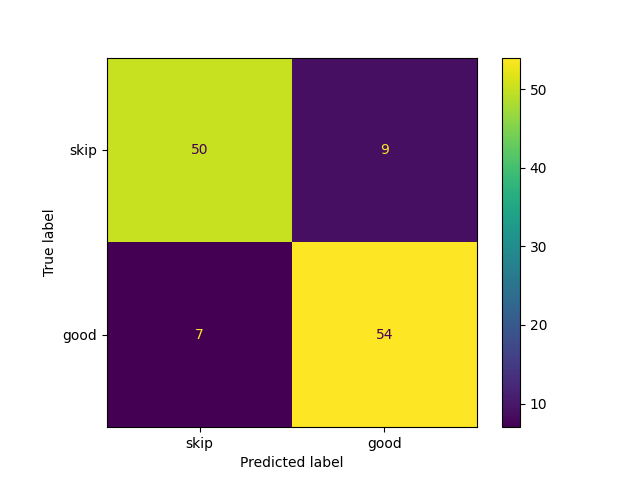
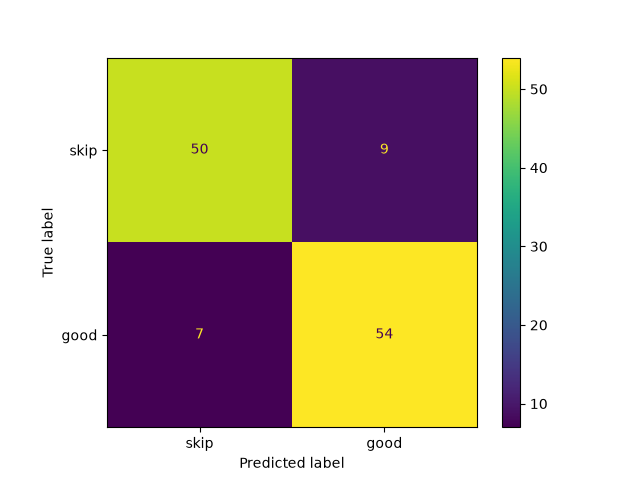
Finished weather_classifier.py

diff --git a/assignments_03/train_classifier.py b/assignments_03/train_classifier.py
@@ -1,8 +1,10 @@
 import numpy as np
 import pandas as pd
 import requests
+import json
+import platform
+import sklearn
 import matplotlib.pyplot as plt
-
 from sklearn.model_selection import train_test_split, cross_val_score
 from sklearn.preprocessing import StandardScaler, OneHotEncoder
 from sklearn.compose import ColumnTransformer
@@ -14,9 +16,6 @@ from sklearn.metrics import (
     ConfusionMatrixDisplay, classification_report,
 )
 import joblib
-
-import requests
-import pandas as pd
 
 url = "https://archive-api.open-meteo.com/v1/archive"
 params = {
@@ -46,10 +45,95 @@ print(df.head(5))
 
 # Task 2
 
+df["good_for_running"] = ((df["temperature_2m_max"].between(7,26)) & (df["temperature_2m_min"]>=0) & (df["precipitation_sum"]<3) & (df["wind_speed_10m_max"]<30)).astype(int)
+print(df["good_for_running"].value_counts())
+print("Fractions: ", df["good_for_running"].value_counts(normalize=True))
+
+# 136 days which is about 37% for good for running. This makes sense because winters get below 7 and summers get well above 26, We do have a good amount of rain as well. 
+# The data has a mild imbalance. Accuracy helps but we might need f1 scores and precision for good days. 
+
 # Task 3
+numeric = ["temperature_2m_max", "temperature_2m_min", "precipitation_sum", "wind_speed_10m_max"]
+X = df[numeric]
+y = df["good_for_running"]
+
+X_train, X_test, y_train, y_test = train_test_split(X, y, test_size=0.2, random_state=42, stratify=y
+ )
+
+best_score = 0
+best_k = 0
+
+for k in [1, 3, 5, 7, 9, 11, 15, 21]:
+    model = Pipeline([
+    ("scaler", StandardScaler()),
+    ("knn", KNeighborsClassifier(n_neighbors=k))
+])
+    scores = cross_val_score(model, X_train, y_train, cv=5)
+    mean_score = scores.mean()
+    print(f"K: {k}  Mean CV score: {mean_score:.4f}")
+
+    if(mean_score >= best_score):
+        best_score = mean_score
+        best_k = k
+model = Pipeline([
+    ("scaler", StandardScaler()),
+    ("knn", KNeighborsClassifier(n_neighbors=best_k))
+])
+model.fit(X_train, y_train)
+
+print(classification_report(y_test,model.predict(X_test)))
+print("Test Accuracy:", model.score(X_test, y_test))
+
+#Using K=3 since the mean score is .91788
 
 # Task 4
 
+new_model = Pipeline([
+    ("scaler", StandardScaler()),
+    ("logreg", LogisticRegression(max_iter=1000)),
+])
+new_model.fit(X_train, y_train)
+
+y_pred = new_model.predict(X_test)
+print(classification_report(y_test, y_pred))
+
+print("Accuracy: ", accuracy_score(y_test, y_pred))
+print("Precision: ", precision_score(y_test, y_pred))
+print("Recall: ", recall_score(y_test, y_pred))
+print("F1 Score: ", f1_score(y_test, y_pred))
+
+logreg = new_model.named_steps["logreg"]
+for feature, coef in zip(numeric, new_model.named_steps["logreg"].coef_[0]):
+    print(f"{feature}:{coef:.4f}")
+
+# temperature_2m_max and precipitation_sum drive whether to skip with coefficients of -1.33 and -2.6 respectively. 
+
 # Task 5
+# The KNN model is more accurate with a result of .918 and the logistic regression giving us .808
+# I think false positives are most important, the worse would be a false positive where users goes out to run and its raining etc.
+# Accuracy matters, but precision is more important in this instance since it measures how often a "good" prediction is actually good.
+# I would choose the KNN model, since its the most accurate and has higher precision (.82 vs .76). On the logreg model you're looking at a recall of 70% and 76% for precision.
+# KNN stores all training days and is slower to predict, but with only ~290 days that is not a problem. The trade-off is that logreg is easier to explain with its coefficients and gives smoother probabilities, while KNN with k=3 can only give 0, .33, .67 or 1.
 
 # Task 6
+joblib.dump(model, "models/weather_classifier.pkl")
+
+loaded = joblib.load("models/weather_classifier.pkl")
+assert (loaded.predict(X_test) == model.predict(X_test)).all()
+print("Predictions match.")
+print("File saved")
+
+metadata = {
+"python_version": platform.python_version(),
+"sklearn_version": sklearn.__version__,
+"city": "Norcross, GA",
+"features": ["temperature_2m_max", "temperature_2m_min", "precipitation_sum", "wind_speed_10m_max"],
+"label_rule": "good if 7 <= high <= 26, low >= 0, precipitation < 3 mm, wind < 30 km/h",
+"test_accuracy": float(accuracy_score(y_test, model.predict(X_test))),
+"f1_score": float(f1_score(y_test, model.predict(X_test)))
+}
+
+with open("models/weather_classifier_metadata.json", "w") as f:
+    json.dump(metadata, f, indent=2)
+    print("JSON doc created: ")
+

diff --git a/assignments_03/warmup_03.py b/assignments_03/warmup_03.py
@@ -33,7 +33,7 @@ X_test_scaled = scaler.transform(X_test)
 
 print(X_train_scaled.mean(axis=0))
 
-# Because the scaler on X_train only prevents data leakage from the test into the training process. 
+# Because the scaler is trained on X_train only prevents data leakage from the test into the training process. 
 
 # Question 2
 encoder = OneHotEncoder(sparse_output=False)
@@ -44,7 +44,7 @@ print(season_col.shape)
 
 print(encoder.get_feature_names_out())
 
-# Season turned into 4 columns because there are 4 distinct categories eaching getting its own binary indicator column. 
+# Season turned into 4 columns because there are 4 distinct categories each getting its own binary indicator column. 
 
 # Question 3
 
@@ -119,7 +119,7 @@ Scaled_KNN_pipeline.fit(X_train, y_train)
 
 print("Scaled Accuracy:", Scaled_KNN_pipeline.score(X_test, y_test))
 
-# Yes scaling helped. It made the model more accurate. This helps us because features with longer distances would drown out smaller features. 
+# Yes scaling helped. It made the model more accurate. This helps us because features with longer range would drown out smaller features. 
 
 # --- Logistic Regression ---
 
@@ -144,14 +144,15 @@ logreg = model.named_steps["logreg"]
 for feature, coef in zip(numeric, model.named_steps["logreg"].coef_[0]):
     print(f"{feature}:{coef:.4f}")
 
-# Wind speed is the feature that pushes most toward skip. I would assume it was precipitation, which is also a skip but wind speed affects it more. 
+# Wind speed is the feature that pushes most towards skip. I would assume it was precipitation, which is also a skip but wind speed affects it more. 
+#Both have negative coefficients. 
 
 # Question 3
 probs_good = model.predict_proba(X_test[:5])[:,1].round(2)
 
 print(probs_good)
 
-# A Probabability of .5 means its a toss up 50/50 that its good to run. 
+# A Probability of .5 means its a toss up 50/50 that its good to run. 
 
 # --- Evaluation ---
 
@@ -165,17 +166,17 @@ plt.savefig("outputs/logreg_confusion_matrix.png")
 plt.close()
 
 #  how many false positives and how many false negatives did the model make, and which kind of error would matter more for a running app?
-# 9 false positives and 7 false negatives. For running, I would assume false positive.
+# 9 false positives and 7 false negatives. For running, I would assume false positive since heading out to run on a rainly day would be worse.
 
 # --- joblib ---
 
 # Question 1
 
-joblib.dump(model, "models/warmup_model.pk1")
+joblib.dump(model, "models/warmup_model.pkl")
 
 loaded = joblib.load("models/warmup_model.pkl")
 assert (loaded.predict(X_test) == model.predict(X_test)).all()
 print("Predictions match.")
 
 
-#  The data would be corrupted and inaccurate because it would be unscaled. 
+#  The data would be inaccurate because it would be unscaled. 
